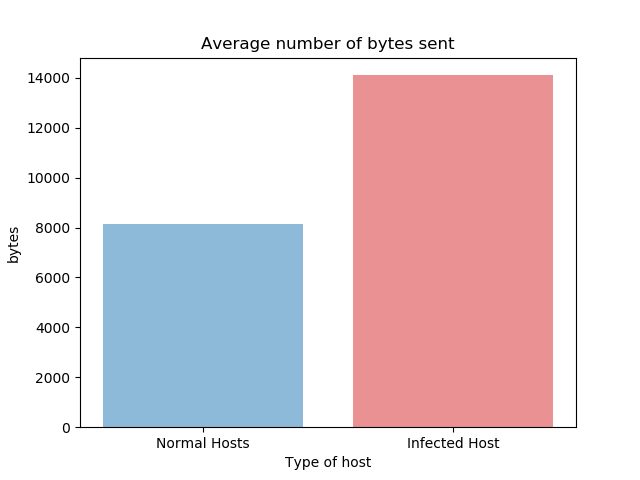
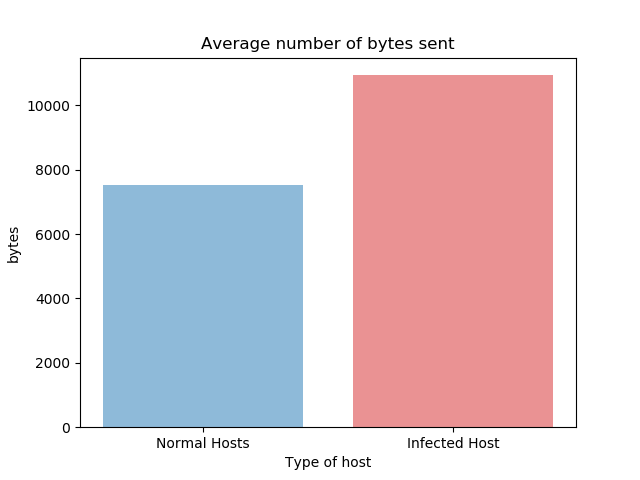
Minor final modifications

diff --git a/streams/adversarial.py b/streams/adversarial.py
@@ -218,23 +218,23 @@ if __name__ == '__main__':
         results_profiling += [step_results_profiling]
 
     # store the final results into dataframe for better visualization and print them
-    headers = ['step 1', 'step 2', 'step 3', 'step 4', 'step 5']
+    headers = ['types', 'step 1', 'step 2', 'step 3', 'step 4', 'step 5']
 
-    results_classification_packet = [[prt] + row for row, prt in
+    results_classification_packet = [prt + row for row, prt in
                                      zip(results_classification_packet, list(perturbation_types.values()))]
     results_classification_packet_df = pd.DataFrame(results_classification_packet, columns=headers)
     results_classification_packet_df.set_index('types', inplace=True)
     print('--------- Flow classification results for packet level ---------')
     print(results_classification_packet_df)
 
-    results_classification_host = [[prt] + row for row, prt in
+    results_classification_host = [prt + row for row, prt in
                                    zip(results_classification_host, list(perturbation_types.values()))]
     results_classification_host_df = pd.DataFrame(results_classification_host, columns=headers)
     results_classification_host_df.set_index('types', inplace=True)
     print('--------- Flow classification results for host level ---------')
     print(results_classification_host_df)
 
-    results_profiling = [[prt] + row for row, prt in zip(results_profiling, list(perturbation_types.values()))]
+    results_profiling = [prt + row for row, prt in zip(results_profiling, list(perturbation_types.values()))]
     results_profiling_df = pd.DataFrame(results_profiling, columns=headers)
     results_profiling_df.set_index('types', inplace=True)
     print('--------- Profiling results ---------')

diff --git a/streams/discretization.py b/streams/discretization.py
@@ -9,6 +9,10 @@ import warnings
 warnings.filterwarnings("ignore")
 
 
+infected_ips = ['147.32.84.165', '147.32.84.191', '147.32.84.192', '147.32.84.193', '147.32.84.204',
+                '147.32.84.205', '147.32.84.206', '147.32.84.207', '147.32.84.208', '147.32.84.209']
+
+
 def make_barplot(data, feature):
     """
     Function for visualising the difference between categorical features for infected and normal hosts
@@ -119,10 +123,11 @@ if __name__ == '__main__':
     normal_ips = ['147.32.84.170', '147.32.84.134', '147.32.84.164', '147.32.87.36', '147.32.80.9', '147.32.87.11']
 
     # currently using only source ips for infected and normal discrimination
-    infected = data[data['src_ip'] == infected_ip]
+    infected = data[(data['src_ip'] == infected_ip) | (data['dst_ip'] == infected_ip)]
     infected = infected.reset_index()
 
-    normal = data[data['src_ip'].isin(normal_ips)]
+    normal= data[(data['src_ip'].isin(normal_ips) & ~data['dst_ip'].isin(infected_ips)) |
+                  (data['dst_ip'].isin(normal_ips) & ~data['src_ip'].isin(infected_ips))]
     normal = normal.reset_index()
 
     # separate the types of features in the dataset
